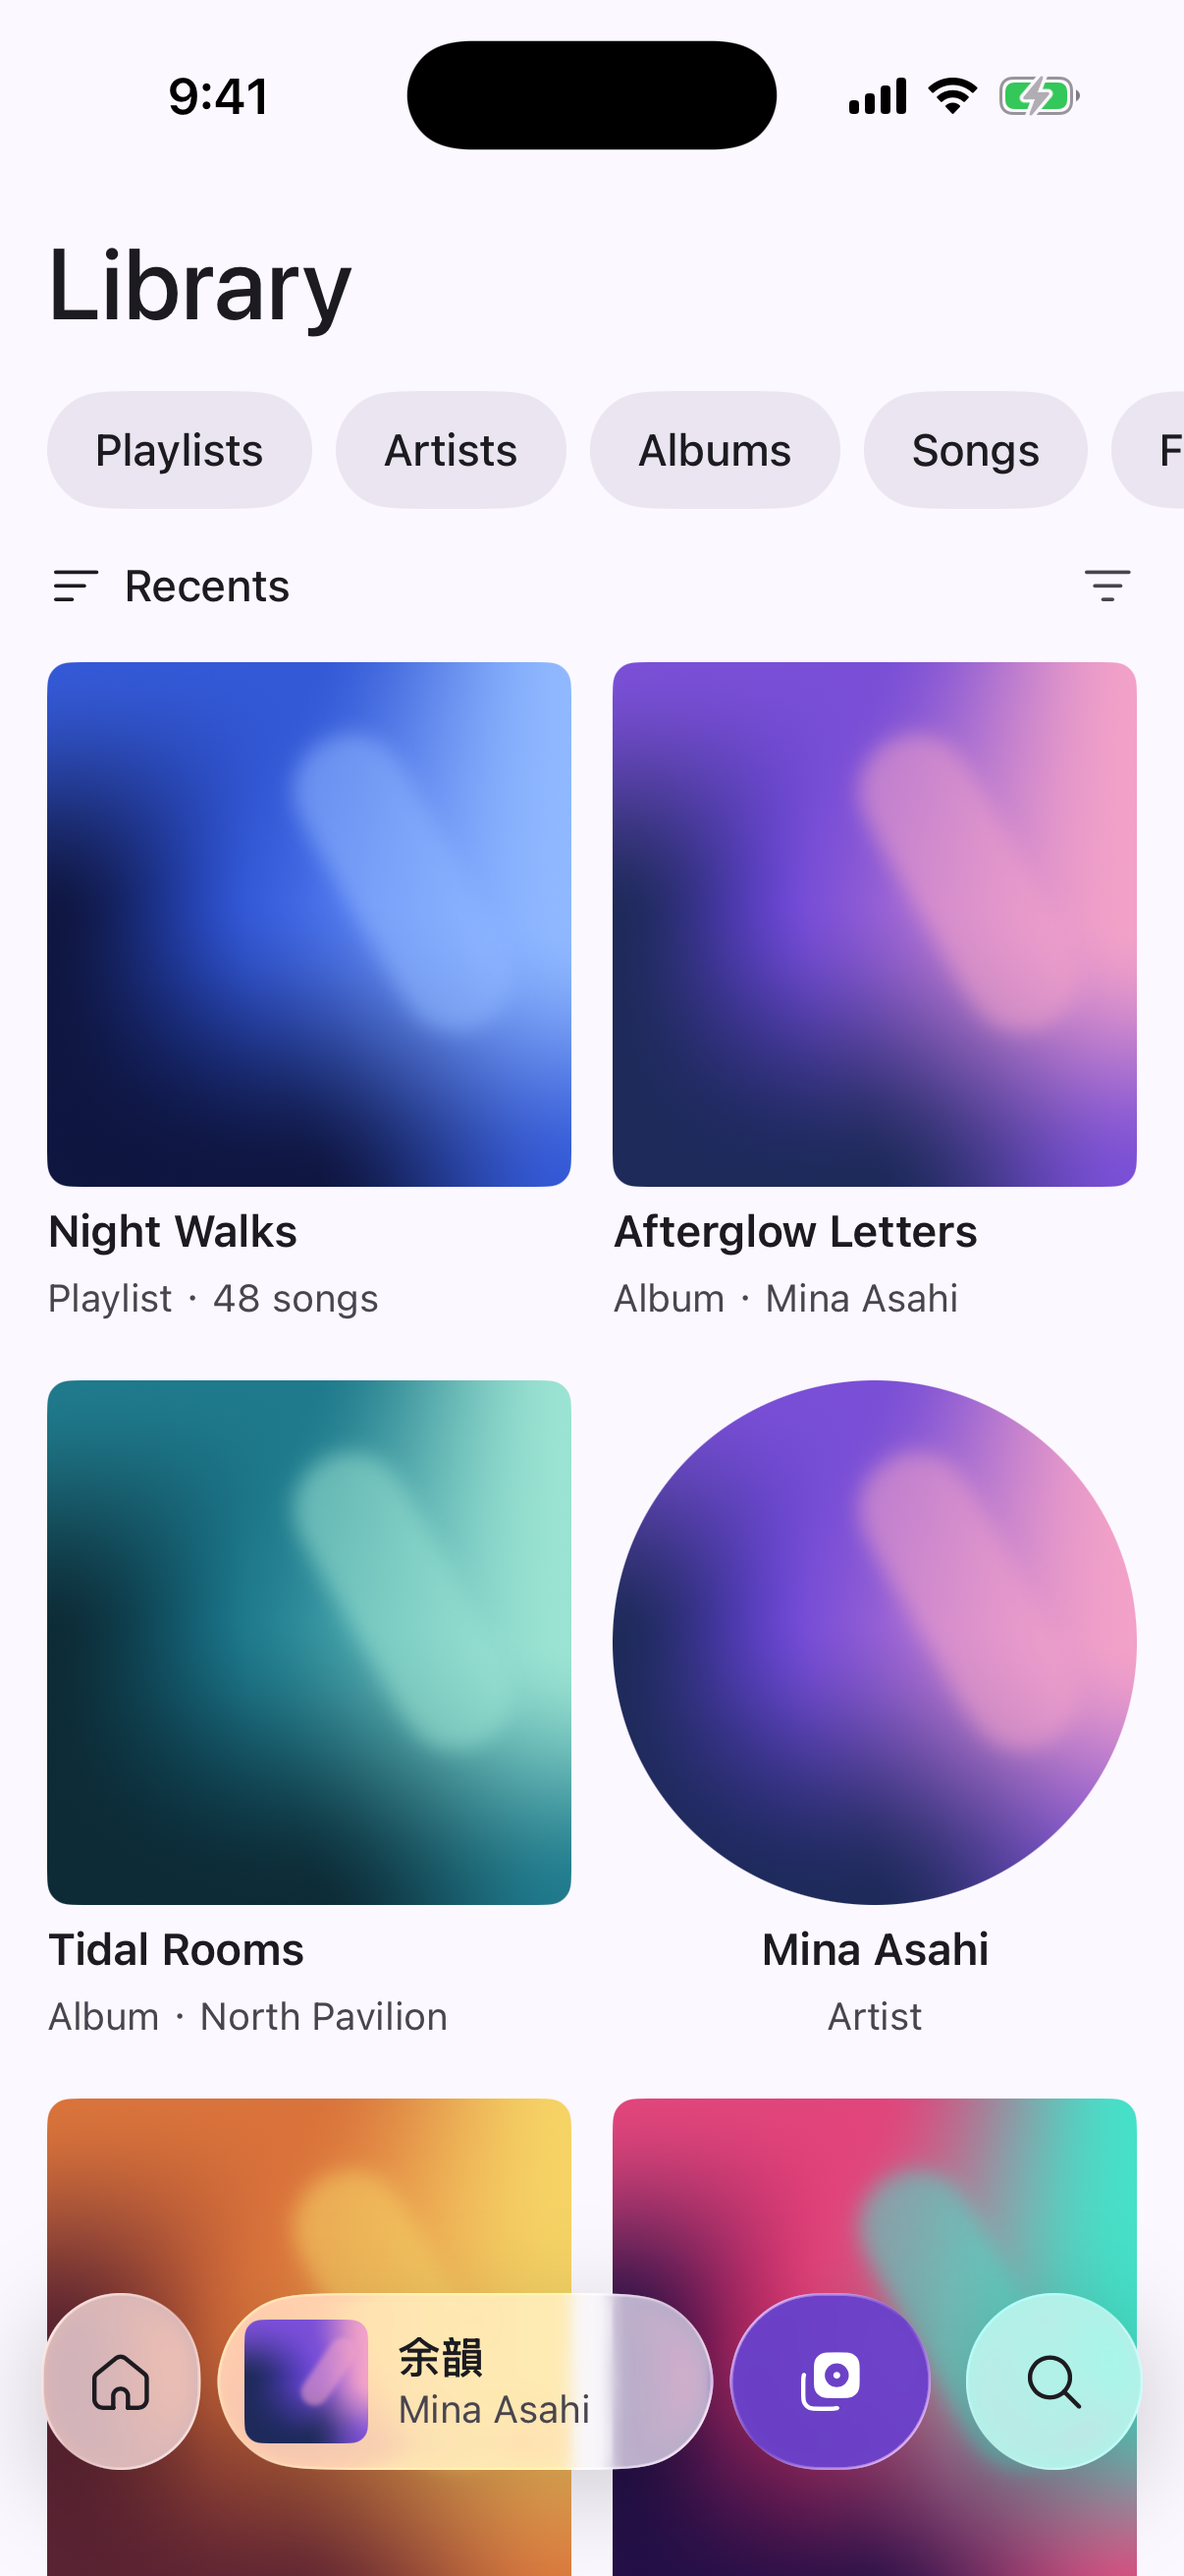
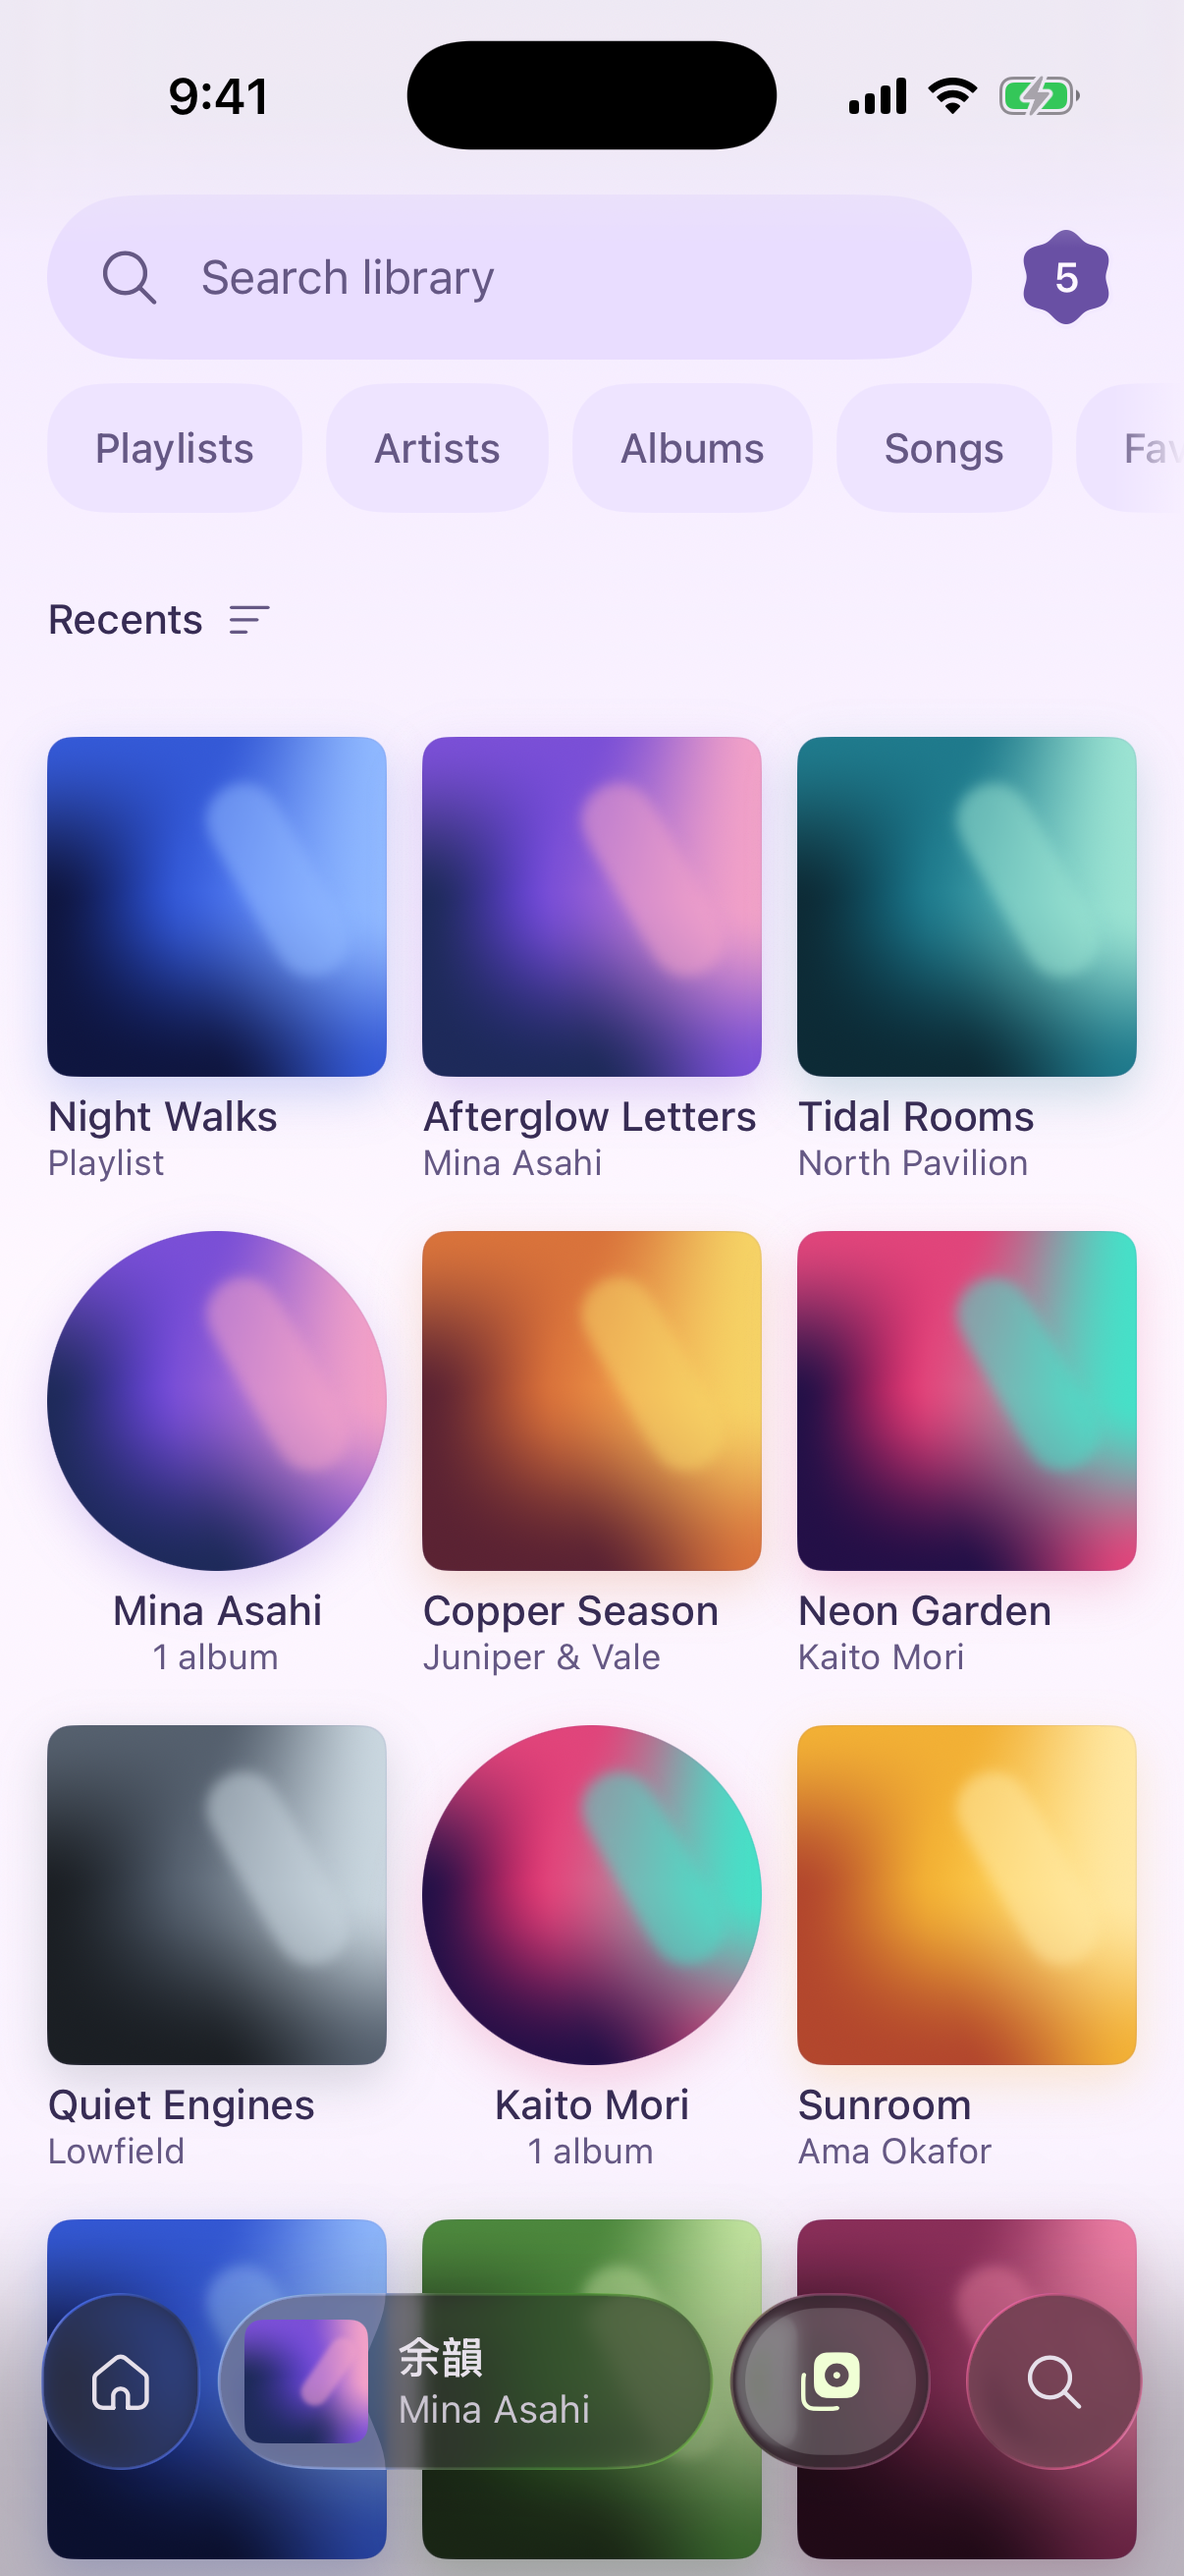
ios: Library root ported from Android (search pill header, filter chips, sort row, 3-column grid, songs list)

diff --git a/iosApp/Yoin/Library/LibraryView.swift b/iosApp/Yoin/Library/LibraryView.swift
@@ -1,8 +1,26 @@
 import SwiftUI
 
+/// Library root, ported from Android ui/library/LibraryScreen.kt (Compact):
+/// search pill + avatar header (no title on Compact), filter chips with the
+/// ✕ that appears while one is on, the sort row as the grid's first row, and
+/// the All grid fixed at 3 columns (16 sides, 12 / 16 gaps) mixing artists
+/// (circles) with albums and playlists (bare covers, as on iOS Home). Songs
+/// is a 68 pt row list. Numbers are cited in iosApp/docs/fidelity-home-np.md.
+///
+/// iOS adaptations: the pill opens the shared Search screen; covers follow
+/// the iOS bare-cover rule; the fast scroller is not built yet.
 struct LibraryView: View {
     @Environment(AppModel.self) private var model
-    @State private var filter: LibraryKind?
+    @Environment(\.colorScheme) private var colorScheme
+    @Environment(\.zoomNamespace) private var zoomNS
+    @State private var filter: LibraryKind? = LaunchConfig.screen == "library-albums" ? .albums
+        : LaunchConfig.screen == "library-songs" ? .songs : nil
+    @State private var width: CGFloat = 370
+
+    private var scheme: CoverScheme {
+        model.isIdle ? .brand(dark: colorScheme == .dark)
+                     : CoverScheme(album: model.playback.album, dark: colorScheme == .dark)
+    }
 
     private var items: [LibraryItem] {
         let all = model.library.libraryItems()
@@ -11,108 +29,217 @@ struct LibraryView: View {
         case .albums: return all.filter { $0.kind == .album }
         case .artists: return all.filter { $0.kind == .artist }
         case .playlists: return all.filter { $0.kind == .playlist }
-        case .songs, .favorites: return all.filter { $0.kind == .album }
+        case .songs, .favorites: return []
         }
     }
 
     var body: some View {
         ScrollView {
-            VStack(alignment: .leading, spacing: 16) {
-                Text("Library")
-                    .font(.gsf(34, .medium))
-                    .foregroundStyle(Yoin.ink)
-                    .padding(.horizontal, 16)
-                    .padding(.top, 14)
+            VStack(alignment: .leading, spacing: 4) {
+                header
                 chips
-                sortRow
-                    .padding(.horizontal, 16)
-                LazyVGrid(columns: [GridItem(.adaptive(minimum: 150, maximum: 220), spacing: 14, alignment: .top)],
-                          alignment: .leading, spacing: 20) {
-                    ForEach(items) { item in
-                        LibraryTile(item: item)
+                Group {
+                    if filter == .songs || filter == .favorites {
+                        songList
+                    } else {
+                        grid
                     }
                 }
-                .padding(.horizontal, 16)
-                .animation(Yoin.spatial, value: filter)
+                .padding(.top, 8)
             }
+            .onGeometryChange(for: CGFloat.self) { $0.size.width } action: { width = $0 }
         }
         .contentMargins(.bottom, 24, for: .scrollContent)
-        .scrollEdgeEffectStyle(.soft, for: .all)
-        .background(Yoin.surface)
+        .scrollEdgeEffectStyle(.soft, for: [.top, .bottom])
+        .background(
+            LinearGradient(colors: [scheme.surfaceContainer, scheme.background, scheme.surfaceContainerLow],
+                           startPoint: .top, endPoint: .bottom)
+            .ignoresSafeArea()
+        )
     }
+
+    // MARK: Header: search pill + avatar
+
+    private var header: some View {
+        HStack(spacing: 8) {
+            Button { withAnimation(Yoin.spatial) { model.searchActive = true } } label: {
+                HStack(spacing: 12) {
+                    YoinIcon("search", size: 24).foregroundStyle(scheme.onSurfaceVariant)
+                    Text("Search library").font(.gsf(16)).foregroundStyle(scheme.onSurfaceVariant)
+                    Spacer()
+                }
+                .padding(.horizontal, 16)
+                .frame(height: 56)
+                .background(scheme.surfaceContainerHighest, in: .capsule)
+                .contentShape(.capsule)
+            }
+            .buttonStyle(.plain)
+            Button {} label: {
+                Text("5")
+                    .font(.gsf(14, .semibold))
+                    .foregroundStyle(scheme.onPrimary)
+                    .frame(width: 32, height: 32)
+                    .background(scheme.primary, in: CookieShape(lobes: 6, depth: 0.16))
+                    .padding(1.5)
+                    .background(scheme.surfaceContainer, in: CookieShape(lobes: 6, depth: 0.16))
+                    .frame(width: 48, height: 48)
+            }
+            .buttonStyle(.plain)
+            .accessibilityLabel("Account")
+        }
+        .padding(.horizontal, 16)
+        .padding(.top, 4)
+        .padding(.bottom, 4)
+    }
+
+    // MARK: Chips
 
     private var chips: some View {
         ScrollView(.horizontal) {
             HStack(spacing: 8) {
                 if filter != nil {
                     Button { withAnimation(Yoin.spatial) { filter = nil } } label: {
-                        YoinIcon("close", size: 18)
-                            .foregroundStyle(Yoin.ink)
-                            .frame(width: 40, height: 40)
-                            .background(Yoin.surfaceContainerHigh, in: .circle)
+                        YoinIcon("close", size: 20)
+                            .foregroundStyle(scheme.onSurfaceVariant)
+                            .frame(width: 44, height: 44)
+                            .background(scheme.surfaceContainerHigh, in: .circle)
                     }
-                    .buttonStyle(.plain)
-                    .transition(.scale.combined(with: .opacity))
-                    .accessibilityLabel("Show all")
+                    .buttonStyle(PressScale())
+                    .transition(.scale(scale: 0.6, anchor: .leading).combined(with: .opacity))
+                    .accessibilityLabel("Clear filter")
                 }
                 ForEach([LibraryKind.playlists, .artists, .albums, .songs, .favorites], id: \.self) { kind in
                     let on = filter == kind
-                    Button {
-                        withAnimation(Yoin.spatial) { filter = on ? nil : kind }
-                    } label: {
+                    Button { withAnimation(Yoin.spatial) { filter = on ? nil : kind } } label: {
                         Text(kind.rawValue)
-                            .font(.gsf(15, .medium))
-                            .foregroundStyle(on ? .white : Yoin.ink)
+                            .font(.gsf(14, .medium))
+                            .foregroundStyle(on ? scheme.onSecondaryContainer : scheme.onSurfaceVariant)
+                            .lineLimit(1)
                             .padding(.horizontal, 16)
-                            .frame(height: 40)
-                            .background(on ? model.accent : Yoin.surfaceContainerHigh, in: .capsule)
+                            .padding(.vertical, 10)
+                            .frame(minHeight: 44)
+                            .background(on ? scheme.secondaryContainer : scheme.surfaceContainerHigh,
+                                        in: .rect(cornerRadius: 18))
                     }
                     .buttonStyle(PressScale())
                 }
             }
-            .padding(.horizontal, 16)
+            .padding(.leading, filter == nil ? 16 : 8)
+            .padding(.trailing, 16)
         }
         .scrollIndicators(.hidden)
+        .mask(
+            LinearGradient(stops: [.init(color: .black, location: 0), .init(color: .black, location: 0.94),
+                                   .init(color: .clear, location: 1)], startPoint: .leading, endPoint: .trailing)
+        )
     }
 
-    private var sortRow: some View {
-        HStack(spacing: 6) {
-            YoinIcon("sort", size: 20)
-            Text("Recents")
-                .font(.gsf(15, .medium))
-            Spacer()
-            YoinIcon("filter", size: 20)
-                .foregroundStyle(Yoin.inkVariant)
+    // MARK: All / Artists / Albums / Playlists grid
+
+    private var grid: some View {
+        let cell = (width - 32 - 24) / 3
+        return LazyVGrid(columns: Array(repeating: GridItem(.fixed(cell), spacing: 12, alignment: .top), count: 3),
+                         alignment: .leading, spacing: 16) {
+            Section {
+                ForEach(items) { item in
+                    gridCell(item, side: cell)
+                }
+            } header: {
+                sortRow
+            }
         }
-        .foregroundStyle(Yoin.ink)
+        .padding(.horizontal, 16)
+        .animation(Yoin.spatial, value: filter)
     }
-}
 
-private struct LibraryTile: View {
-    @Environment(AppModel.self) private var model
-    @Environment(\.zoomNamespace) private var zoomNS
-    var item: LibraryItem
+    /// The sort row: label + sort symbol, as the grid's first row.
+    private var sortRow: some View {
+        Menu {
+            Button {} label: { Label { Text("Recents") } icon: { YoinIcon("check", size: 18) } }
+            Button("Recently added") {}
+            Button("Alphabetical") {}
+            Button("Creator") {}
+        } label: {
+            HStack(spacing: 6) {
+                Text("Recents").font(.gsf(14, .medium)).foregroundStyle(scheme.onSurface)
+                YoinIcon("sort", size: 18).foregroundStyle(scheme.onSurfaceVariant)
+            }
+            .padding(.horizontal, 8)
+            .padding(.vertical, 10)
+            .frame(minHeight: 48)
+            .contentShape(.rect(cornerRadius: 12))
+        }
+        .buttonStyle(.plain)
+        .offset(x: -8)
+        .frame(maxWidth: .infinity, alignment: .leading)
+        .accessibilityLabel("Sort")
+    }
 
-    var body: some View {
+    @ViewBuilder
+    private func gridCell(_ item: LibraryItem, side: CGFloat) -> some View {
+        let isArtist = item.kind == .artist
         Button {
             if let album = item.album { model.open(album) }
         } label: {
-            VStack(alignment: item.kind == .artist ? .center : .leading, spacing: 6) {
-                CoverArt(palette: item.palette, cornerRadius: item.kind == .artist ? 400 : 8,
-                         seed: item.id.rawId.count)
-                    .aspectRatio(1, contentMode: .fit)
+            VStack(alignment: isArtist ? .center : .leading, spacing: 0) {
+                EntityBackdrop(entity: isArtist ? .artist : .album, palette: item.palette,
+                               seed: item.id.rawId.count, size: side, stroke: scheme.primary)
                     .zoomSource(item.id, zoomNS)
+                Spacer().frame(height: 5)
                 Text(item.title)
-                    .font(.gsf(15, .semibold))
-                    .foregroundStyle(Yoin.ink)
+                    .font(.gsf(14, .medium))
+                    .foregroundStyle(scheme.onSurface)
                     .lineLimit(1)
-                Text(item.subtitle)
-                    .font(.gsf(13))
-                    .foregroundStyle(Yoin.inkVariant)
+                Text(subtitle(item))
+                    .font(.gsf(12))
+                    .foregroundStyle(scheme.onSurfaceVariant)
                     .lineLimit(1)
             }
-            .frame(maxWidth: .infinity, alignment: item.kind == .artist ? .center : .leading)
+            .frame(width: side, alignment: isArtist ? .center : .leading)
         }
         .buttonStyle(PressScale())
+    }
+
+    private func subtitle(_ item: LibraryItem) -> String {
+        switch item.kind {
+        case .artist:
+            let n = model.library.albums().filter { $0.artist == item.title }.count
+            return n == 1 ? "1 album" : "\(n) albums"
+        case .album: return item.album?.artist ?? ""
+        case .playlist: return "Playlist"
+        }
+    }
+
+    // MARK: Songs
+
+    private var songList: some View {
+        let tracks = model.library.albums().flatMap { a in a.tracks.prefix(3).map { (a, $0) } }
+        return LazyVStack(spacing: 0) {
+            ForEach(tracks, id: \.1.id) { a, t in
+                let current = model.playback.track.id == t.id
+                HStack(spacing: 12) {
+                    CoverArt(palette: a.palette, cornerRadius: 0, seed: a.seed)
+                        .frame(width: 48, height: 48)
+                        .clipShape(.rect(cornerRadius: 4, style: .continuous))
+                    VStack(alignment: .leading, spacing: 0) {
+                        HStack(spacing: 0) {
+                            if current {
+                                YoinIcon("equalizer", size: 16).foregroundStyle(scheme.primary).padding(.trailing, 6)
+                            }
+                            Text(t.title).font(.gsf(14, .medium))
+                                .foregroundStyle(current ? scheme.primary : scheme.onSurface)
+                        }
+                        Text("\(a.artist) · \(a.title)").font(.gsf(12)).foregroundStyle(scheme.onSurfaceVariant)
+                    }
+                    .lineLimit(1)
+                    Spacer(minLength: 6)
+                    Text(formatTime(t.durationSec))
+                        .font(.gsf(14, .medium)).monospacedDigit()
+                        .foregroundStyle(scheme.onSurfaceVariant)
+                }
+                .padding(.horizontal, 16)
+                .padding(.vertical, 10)
+            }
+        }
     }
 }

diff --git a/iosApp/Yoin/App/AppModel.swift b/iosApp/Yoin/App/AppModel.swift
@@ -39,6 +39,7 @@ final class AppModel {
         glassFlavor = GlassFlavor(rawValue: LaunchConfig.glass) ?? .system
         switch LaunchConfig.baseScreen {
         case "library": section = .library
+        case "library-albums", "library-songs": section = .library
         case "album", "album-list", "album-mid", "album-scrapbook", "album-scrapbook-bottom": path = [library.albums()[0]]
         case "np": npExpanded = true
         case "np-short": npExpanded = true; npForceShort = true
